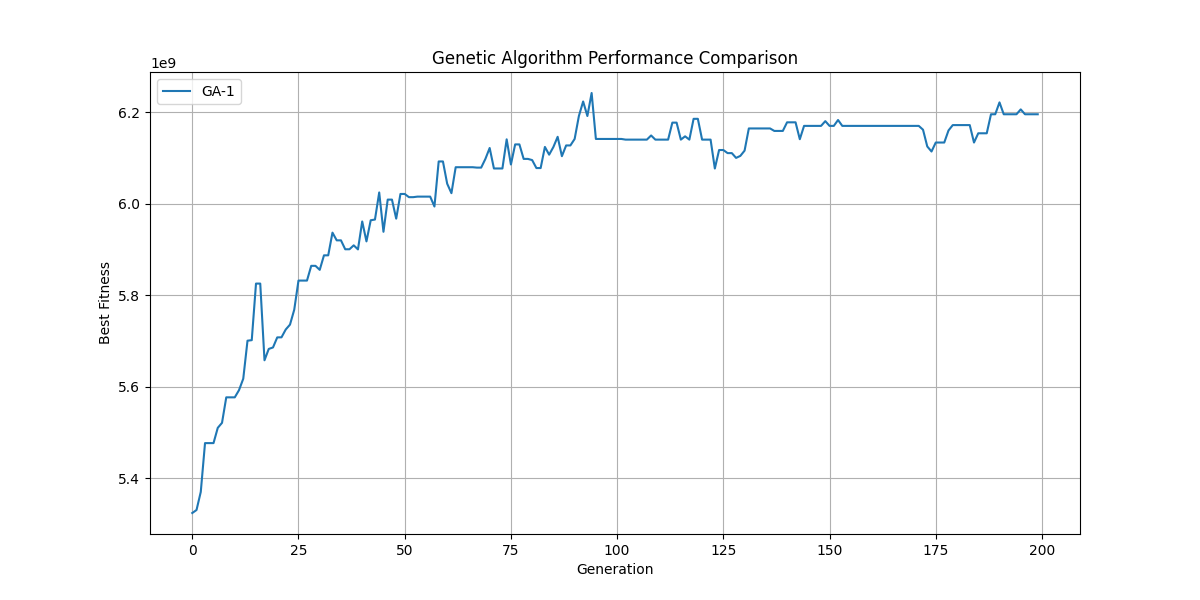
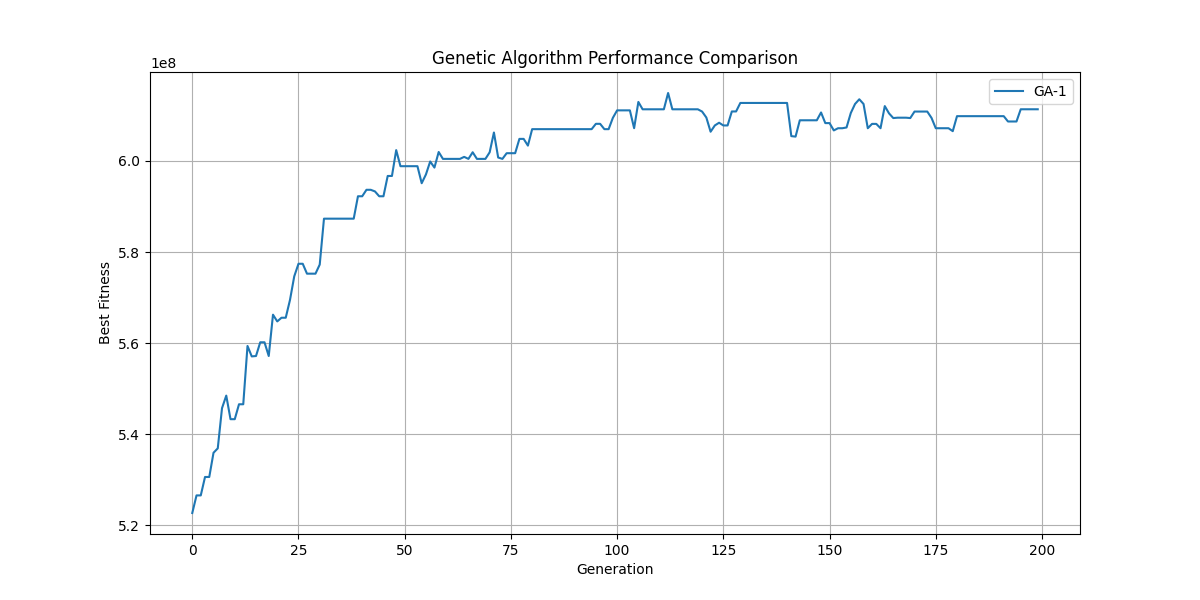
updated the version

diff --git a/main.py b/main.py
@@ -4,6 +4,8 @@ from ttp_solver import TTPSolver
 from genetic_algorithm import GeneticAlgorithm
 from fitness_function import calculate_fitness
 from ttp_benchmark_solver import read_benchmark_file, generate_items
+import matplotlib.pyplot as plt 
+
 
 def run_genetic_algorithm(name: str, filename: str, population_size: int, mutation_rate: float, generations: int):
     benchmark_data = read_benchmark_file(filename)
@@ -69,110 +71,38 @@ def main():
     
     args = parser.parse_args()
     
-    results = []
-    for idx, file in enumerate(args.files):
-        ga_results = run_genetic_algorithm(
-            f"GA-{idx+1}",
-            file,
-            args.population,
-            args.mutation,
-            args.generations
-        )
-        results.append(ga_results)
-    
-    # Plot comparison
-    import matplotlib.pyplot as plt
-    plt.figure(figsize=(12, 6))
-    for idx, result in enumerate(results):
-        plt.plot(result[0], label=f'GA-{idx+1}')
-        print(f"\nGA-{idx+1} Best Fitness: {result[1]}")
-    
-    plt.xlabel('Generation')
-    plt.ylabel('Best Fitness')
-    plt.title('Genetic Algorithm Performance Comparison')
-    plt.legend()
-    plt.grid(True)
-    plt.savefig('ga_comparison.png')
-    plt.show()
+    final_results = []
+
+    for run in range(10):  
+        run_results = []
+
+        for idx, file in enumerate(args.files):
+            ga_results = run_genetic_algorithm(  
+                f"GA-{idx+1}",
+                file,
+                args.population,
+                args.mutation,
+                args.generations
+            )
+            run_results.append(ga_results)
+        
+        # Plot comparison for this run
+        plt.figure(figsize=(12, 6))
+        for idx, result in enumerate(run_results):
+            plt.plot(result[0], label=f'GA-{idx+1} (Run {run+1})')
+            print(f"\nRun {run+1}, GA-{idx+1} Best Fitness: {result[1]}")
+
+        plt.xlabel('Generation')
+        plt.ylabel('Best Fitness')
+        plt.title(f'Genetic Algorithm Performance Comparison - Run {run+1}')
+        plt.legend()
+        plt.grid(True)
+        plt.savefig(f'ga_comparison_run_{run+1}.png')
+        plt.show()
+
+        final_results.append(result[1])
+
+    print("\n Final Results are :", final_results)
 
 if __name__ == "__main__":
     main()
-
-
-
-
-
-# when we are comparing the same single benchmark with various population size, mutation rate, generations
-# import random
-# from ttp_solver import TTPSolver
-# from genetic_algorithm import GeneticAlgorithm
-# from fitness_function import calculate_fitness
-# from ttp_benchmark_solver import read_benchmark_file,generate_items
-# def run_genetic_algorithm(name: str, population_size: int, mutation_rate: float, generations: int):
-#     benchmark_data = read_benchmark_file('a280_n.txt')
-#     items = generate_items(benchmark_data['dimension'], 2790)
-    
-#     ttp_solver = TTPSolver(
-#         cities=benchmark_data['cities'],
-#         items=items,
-#         capacity=benchmark_data['capacity'],
-#         min_speed=benchmark_data['min_speed'],
-#         max_speed=benchmark_data['max_speed'],
-#         renting_ratio=benchmark_data['renting_ratio']
-#     )
-    
-#     ga = GeneticAlgorithm(population_size, mutation_rate, generations)
-#     population = ga.initialize_population(len(benchmark_data['cities']), len(items))
-    
-#     best_fitness_history = []
-#     best_solution = None
-#     best_overall_fitness = float('-inf')
-    
-#     for generation in range(ga.generations):
-#         fitness_scores = [calculate_fitness(solution, ttp_solver) for solution in population]
-#         best_fitness = max(fitness_scores)
-#         best_fitness_history.append(best_fitness)
-        
-#         if best_fitness > best_overall_fitness:
-#             best_overall_fitness = best_fitness
-#             best_solution = population[fitness_scores.index(best_fitness)]
-            
-#         print(f"{name} - Generation {generation}: Best Fitness = {best_fitness}")
-        
-#         parents = random.choices(population, weights=fitness_scores, k=ga.population_size)
-#         new_population = []
-#         for i in range(0, ga.population_size, 2):
-#             parent1 = parents[i]
-#             parent2 = parents[i + 1] if i + 1 < ga.population_size else parents[0]
-#             child = ga.crossover(parent1, parent2)
-#             child = ga.mutate(child)
-#             new_population.append(child)
-#         population = new_population
-        
-#     return best_fitness_history, best_overall_fitness, best_solution
-
-# def main():
-#     # Run multiple GA variants
-#     ga1_results = run_genetic_algorithm("GA-1", population_size=200, mutation_rate=0.05, generations=2)
-#     ga2_results = run_genetic_algorithm("GA-2", population_size=300, mutation_rate=0.02, generations=2)
-    
-#     # Compare results
-#     print("\nComparison Results:")
-#     print(f"GA-1 Best Fitness: {ga1_results[1]}")
-#     print(f"GA-2 Best Fitness: {ga2_results[1]}")
-    
-#     # Plot comparison
-#     import matplotlib.pyplot as plt
-#     plt.figure(figsize=(12, 6))
-#     plt.plot(ga1_results[0], label='GA-1')
-#     plt.plot(ga2_results[0], label='GA-2')
-#     plt.xlabel('Generation')
-#     plt.ylabel('Best Fitness')
-#     plt.title('Genetic Algorithm Performance Comparison')
-#     plt.legend()
-#     plt.grid(True)
-#     plt.savefig('ga_comparison.png')
-#     plt.show()
-
-# if __name__ == "__main__":
-#     main()
